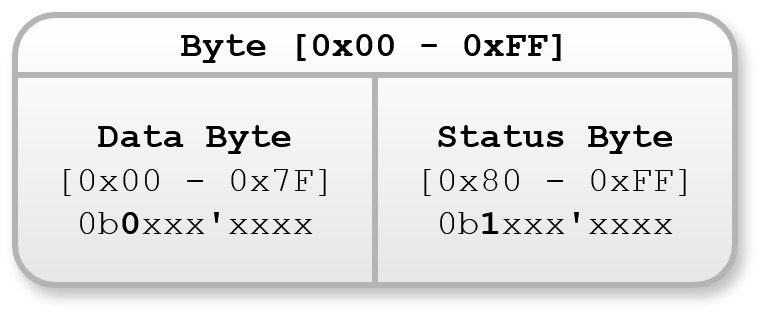
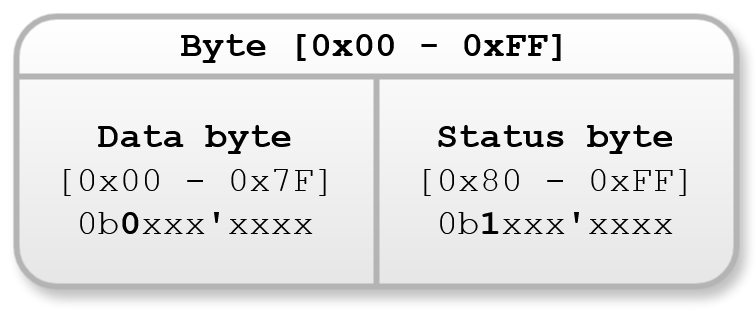
Revisados capitulos 2 y 3

diff --git a/Chapters/Chapter2.tex b/Chapters/Chapter2.tex
@@ -11,7 +11,7 @@ En este capítulo se describe brevemente cómo se codifican los mensajes MIDI de
 
 \section{Formato de mensajes MIDI} % 1 página
 
-El estándar MIDI se basa en el envío de datos a través de un puerto serie optoaislado que opera a una velocidad de 31 250 baudios \cite{mma:midi_spec}. Para codificar los mensajes se establece, en primer lugar, una distinción entre dos tipos de bytes: de estado (Status Byte) y de datos (Data Byte). En la figura \ref{fig:midi-byte} se ilustra esta diferencia.
+El estándar MIDI se basa en el envío de datos a través de un puerto serie optoaislado que opera a una velocidad de 31 250 baudios \cite{mma:midi_spec}. Para codificar los mensajes se establece, en primer lugar, una distinción entre dos tipos de bytes: de estado (status byte) y de datos (data byte). En la figura \ref{fig:midi-byte} se ilustra esta diferencia.
 
 \begin{figure}[ht]
 	\centering
@@ -39,7 +39,7 @@ En la figura \ref{fig:structure-midi-message} se ilustran estos cuatro posibles 
 	\label{fig:structure-midi-message}
 \end{figure}
 
-La cantidad de bytes de datos depende únicamente del tipo de mensaje. El estándar define dos categorías principales: mensajes de canal (Channel Messages) y mensajes de sistema (System Messages). En la figura \ref{fig:midi-messages} se observa un diagrama jerárquico de todos los tipos de mensajes.
+La cantidad de bytes de datos depende únicamente del tipo de mensaje. El estándar define dos categorías principales: mensajes de canal (channel messages) y mensajes de sistema (system messages). En la figura \ref{fig:midi-messages} se observa un diagrama jerárquico de todos los tipos de mensajes.
 
 \begin{figure}[H]
 	\centering
@@ -54,11 +54,11 @@ Con base en lo expuesto, la diferencia entre un mensaje de canal y uno de sistem
 
 La siguiente jerarquía de categorización se lista únicamente a modo explicativo:
 \begin{itemize}
-	\item Channel Voice Messages: controlan las voces de un instrumento. Se entiende por voz el sonido que este genera.
-	\item Channel Mode Messages: determinan cómo debe ser la respuesta del instrumento frente a los Voice Messages.
-	\item System Common Messages: son mensajes de sistema generales que se aplican sobre todos los receptores.
-	\item System Real Time Messages: son mensajes orientados a sincronizar instrumentos que disponen de algún mecanismo de reloj.
-	\item System Exclusive Messages: son mensajes de longitud variable, pensados para que los fabricantes puedan transmitir información propietaria que no está contemplada en el estándar.
+	\item Channel voice messages: controlan las voces de un instrumento. Se entiende por voz el sonido que este genera.
+	\item Channel mode messages: determinan cómo debe ser la respuesta del instrumento frente a los Voice Messages.
+	\item System common messages: son mensajes de sistema generales que se aplican sobre todos los receptores.
+	\item System real time messages: son mensajes orientados a sincronizar instrumentos que disponen de algún mecanismo de reloj.
+	\item System exclusive messages: son mensajes de longitud variable, pensados para que los fabricantes puedan transmitir información propietaria que no está contemplada en el estándar.
 \end{itemize}
 
 En la tabla \ref{tab:channel-messages} se listan todos los mensajes de canal definidos por el estándar. Además se agrega la cantidad de bytes de datos que posee cada uno de ellos.
@@ -68,15 +68,15 @@ En la tabla \ref{tab:channel-messages} se listan todos los mensajes de canal def
 	\label{tab:channel-messages}
 	\begin{tabular}{lccc}
 		\toprule
-		\textbf{Nombre}   & \textbf{ID (hexa)} & \textbf{Status Byte (binario)} & \textbf{\# Data Bytes} \\
+		\textbf{Nombre}   & \textbf{ID (hexa)} & \textbf{Status byte (binario)} & \textbf{\# Data bytes} \\
 		\midrule
-		Note Off          & \texttt{0x8n}       & \texttt{1000'nnnn}              & 2                      \\
-		Note On           & \texttt{0x9n}       & \texttt{1001'nnnn}              & 2                      \\
+		Note off          & \texttt{0x8n}       & \texttt{1000'nnnn}              & 2                      \\
+		Note on           & \texttt{0x9n}       & \texttt{1001'nnnn}              & 2                      \\
 		Aftertouch        & \texttt{0xAn}       & \texttt{1010'nnnn}              & 2                      \\
-		Control Change    & \texttt{0xBn}       & \texttt{1011'nnnn}              & 2                      \\
-		Program Change    & \texttt{0xCn}       & \texttt{1100'nnnn}              & 1                      \\
-		Channel Pressure  & \texttt{0xDn}       & \texttt{1101'nnnn}              & 1                      \\
-		Pitch Bend Change & \texttt{0xEn}       & \texttt{1110'nnnn}              & 2                      \\
+		Control change    & \texttt{0xBn}       & \texttt{1011'nnnn}              & 2                      \\
+		Program change    & \texttt{0xCn}       & \texttt{1100'nnnn}              & 1                      \\
+		Channel pressure  & \texttt{0xDn}       & \texttt{1101'nnnn}              & 1                      \\
+		Pitch bend change & \texttt{0xEn}       & \texttt{1110'nnnn}              & 2                      \\
 		\bottomrule
 		\hline
 	\end{tabular}
@@ -91,20 +91,20 @@ Finalmente, en la tabla \ref{tab:system-messages} se listan los mensajes de sist
 	{
 	\begin{tabular}{lccc}
 		\toprule
-		\textbf{Nombre}                & \textbf{ID (hexa)} & \textbf{Status Byte (binario)} & \textbf{\# Data Bytes} \\
+		\textbf{Nombre}                & \textbf{ID (hexa)} & \textbf{Status byte (binario)} & \textbf{\# Data bytes} \\
 		\midrule
-		SOX: Start of System Exclusive & \texttt{0xF0}      & \texttt{1111'0000}             & N                      \\
-		MIDI Time Code Quarter Frame   & \texttt{0xF1}      & \texttt{1111'0001}             & 1                      \\
-		Song Position Pointer          & \texttt{0xF2}      & \texttt{1111'0010}             & 2                      \\
-		Song Select                    & \texttt{0xF3}      & \texttt{1111'0011}             & 1                      \\
-		Tune Request                   & \texttt{0xF6}      & \texttt{1111'0110}             & 0                      \\
-		EOX: End of System Exclusive   & \texttt{0xF7}      & \texttt{1111'0111}             & 0                      \\
-		Timing Clock                   & \texttt{0xF8}      & \texttt{1111'1000}             & 0                      \\
+		SOX: Start of system exclusive & \texttt{0xF0}      & \texttt{1111'0000}             & N                      \\
+		MIDI time code quarter frame   & \texttt{0xF1}      & \texttt{1111'0001}             & 1                      \\
+		Song position pointer          & \texttt{0xF2}      & \texttt{1111'0010}             & 2                      \\
+		Song select                    & \texttt{0xF3}      & \texttt{1111'0011}             & 1                      \\
+		Tune request                   & \texttt{0xF6}      & \texttt{1111'0110}             & 0                      \\
+		EOX: End of system exclusive   & \texttt{0xF7}      & \texttt{1111'0111}             & 0                      \\
+		Timing clock                   & \texttt{0xF8}      & \texttt{1111'1000}             & 0                      \\
 		Start                          & \texttt{0xFA}      & \texttt{1111'1010}             & 0                      \\
 		Continue                       & \texttt{0xFB}      & \texttt{1111'1011}             & 0                      \\
 		Stop                           & \texttt{0xFC}      & \texttt{1111'1100}             & 0                      \\
-		Active Sensing                 & \texttt{0xFE}      & \texttt{1111'1110}             & 0                      \\
-		System Reset                   & \texttt{0xFF}      & \texttt{1111'1111}             & 0                      \\
+		Active sensing                 & \texttt{0xFE}      & \texttt{1111'1110}             & 0                      \\
+		System reset                   & \texttt{0xFF}      & \texttt{1111'1111}             & 0                      \\
 		\bottomrule
 		\hline
 	\end{tabular}
@@ -132,7 +132,7 @@ Para desarrollar el equipo, el requerimiento más importante del microcontrolado
 		\midrule
 		Núcleo                  & ARM Cortex-M4F          \\
 		Frecuencia máxima       & 100 MHz                 \\
-		Memoria flash           & 1.5 Mbytes              \\
+		Memoria flash           & 1,5 Mbytes              \\
 		Memoria RAM             & 320 Kbytes              \\
 		Cantidad de UARTs       & 10                      \\
 		Canales de DMA          & 16                      \\
@@ -156,7 +156,7 @@ El fabricante comercializa un kit de desarrollo basado en este microcontrolador,
 \footnotetext{Imagen tomada de \url{https://www.st.com/en/evaluation-tools/nucleo-f413zh.html}.}
 
 \subsection{Conversor Serie-USB}
-Dado que MIDI es un estándar basado en comunicación serie, para la etapa inicial del trabajo se han utilizado ocho conversores Serie-USB basados en el CH340G \cite{wch:ch340g}. En la figura \ref{fig:usb-serial} se observa una fotografía del mismo.
+Dado que MIDI es un estándar basado en comunicación serie, para la etapa inicial del trabajo se han utilizado ocho conversores Serie-USB basados en el CH340G \cite{wch:ch340g}. En la figura \ref{fig:usb-serial} se observa una fotografía de un conversor de este tipo.
 
 \begin{figure}[ht]
 	\centering
@@ -176,7 +176,7 @@ Dado que MIDI es un estándar basado en comunicación serie, para la etapa inici
 En esta sección se describen las principales herramientas de software y bibliotecas de terceros empleadas para el desarrollo del firmware del equipo.
 
 \subsection{Toolchain utilizado}
-Se optó por utilizar el lenguaje C++20 \cite{ISO:14882-2020} para el desarrollo de la aplicación principal, mientras que las bibliotecas de terceros están desarrolladas en el lenguaje de programación C \cite{st:um1725}, \cite{freertos:c-dev-tools}. Para ambos casos se empleó ARM GNU Toolchain, versión 14.3, como herramienta de compilación cruzada para la arquitectura Arm. Este conjunto de herramientas provee, entre otras, las siguientes utilidades:
+Se optó por utilizar el lenguaje C++20 \cite{ISO:14882-2020} para el desarrollo de la aplicación principal, mientras que las bibliotecas de terceros están desarrolladas en el lenguaje de programación C \cite{st:um1725}, \cite{freertos:c-dev-tools}. Para ambos casos se empleó ARM GNU Toolchain, versión 14.3, como herramienta de compilación cruzada para la arquitectura ARM. Este conjunto de herramientas provee, entre otras, las siguientes utilidades:
 \begin{itemize}
     \item Compiladores: \texttt{gcc} y \texttt{g++}
 	\item Enlazador: \texttt{ld}
@@ -188,17 +188,17 @@ Se optó por utilizar el lenguaje C++20 \cite{ISO:14882-2020} para el desarrollo
 
 Para simplificar el acceso a los periféricos del microcontrolador se empleó la biblioteca HAL (\textit{Hardware Abstraction Layer}) provista por STMicroelectronics \cite{st:um1725}. Esta biblioteca ofrece una capa de abstracción sobre el hardware del STM32F413 a través de una interfaz de programación en C que encapsula el manejo directo de registros y agrupa la funcionalidad de cada periférico en módulos coherentes (por ejemplo, GPIO, UART, SPI, temporizadores y DMA).
 
-El uso de la HAL permite reducir el tiempo de desarrollo y mejorar la portabilidad del código entre distintos microcontroladores de la misma familia, ya que mantiene una interfaz de alto nivel relativamente uniforme. En este proyecto se utilizó la HAL para la inicialización del reloj del sistema, la configuración de las interfaces de comunicación digital y la gestión de interrupciones asociadas, manteniendo el código de aplicación desacoplado de los detalles específicos del dispositivo.
+El uso de la HAL permite reducir el tiempo de desarrollo y mejorar la portabilidad del código entre distintos microcontroladores de la misma familia, ya que mantiene una interfaz de alto nivel relativamente uniforme. En este trabajo se utilizó la HAL para la inicialización del reloj del sistema, la configuración de las interfaces de comunicación digital y la gestión de interrupciones asociadas, de modo tal que el código de aplicación permanece desacoplado de los detalles específicos del dispositivo.
 
 \subsection{Biblioteca USB}
 
-Además de la biblioteca HAL, en este trabajo se integró la biblioteca de dispositivo USB provista por STMicroelectronics. Esta biblioteca implementa el stack de protocolo USB en modo device e incluye el soporte para la enumeración, la gestión de endpoints y el manejo de las transferencias de datos mediante una interfaz de programación en C.
+Además de la biblioteca HAL, en este trabajo se integró la biblioteca de dispositivo USB provista por STMicroelectronics \cite{st:um1734}. Esta biblioteca implementa el stack de protocolo USB en modo device e incluye el soporte para la enumeración, la gestión de endpoints y el manejo de las transferencias de datos mediante una interfaz de programación en C.
 
 La utilización de esta biblioteca permitió incorporar una interfaz de comunicación USB entre el equipo y una computadora sin necesidad de desarrollar un stack desde cero. De este modo, el firmware de aplicación pudo concentrarse en el procesamiento de los mensajes y en la lógica específica del equipo mientras que la biblioteca se encarga de las tareas relacionadas con el protocolo USB y sus detalles de bajo nivel.
 
 \subsection{Sistema operativo en tiempo real FreeRTOS}
 
-Como sistema operativo en tiempo real se utilizó FreeRTOS, un kernel ampliamente difundido en sistemas embebidos de recursos acotados. FreeRTOS proporciona mecanismos de planificación de tareas, colas de mensajes, semáforos y temporizadores de software, entre otros servicios básicos necesarios para estructurar aplicaciones concurrentes sobre microcontroladores.
+Como sistema operativo en tiempo real se utilizó FreeRTOS \cite{freertos:kernel}, un kernel ampliamente difundido en sistemas embebidos de recursos acotados. FreeRTOS proporciona mecanismos de planificación de tareas, colas de mensajes, semáforos y temporizadores de software, entre otros servicios básicos necesarios para estructurar aplicaciones concurrentes sobre microcontroladores.
 
 %----------------------------------------------------------------------------------------
 
@@ -206,17 +206,17 @@ Como sistema operativo en tiempo real se utilizó FreeRTOS, un kernel ampliament
 
 \section{Framework para el desarrollo del software}
 
-Para el desarrollo de la aplicación de escritorio se empleó Qt 6 como framework principal. Qt provee un conjunto de bibliotecas en C++ orientadas al desarrollo de interfaces gráficas y aplicaciones multiplataforma, lo que facilita la ejecución de un mismo código en distintos sistemas operativos de escritorio sin cambios significativos.
+Para el desarrollo de la aplicación de escritorio se empleó Qt 6 \cite{qt:qt6} como framework principal. Qt provee un conjunto de bibliotecas en C++ orientadas al desarrollo de interfaces gráficas y aplicaciones multiplataforma, lo que facilita la ejecución de un mismo código en distintos sistemas operativos de escritorio sin cambios significativos.
 
-La interfaz de usuario se implementó mediante QML (\textit{Qt Modeling Language}), un lenguaje declarativo que permite describir la estructura visual y el comportamiento de la interfaz de manera compacta. La lógica de aplicación y la comunicación con el equipo se implementaron en C++, integrándose con QML a través de mecanismos provistos por Qt. Esta combinación permitió separar de forma clara la presentación gráfica de la lógica de negocio, simplificando el mantenimiento y la evolución futura de la aplicación.
+La interfaz de usuario se implementó mediante QML (\textit{Qt Modeling Language}) \cite{qt:qml}, un lenguaje declarativo que permite describir la estructura visual y el comportamiento de la interfaz de manera compacta. La lógica de aplicación y la comunicación con el equipo se implementaron en C++, integrándose con QML a través de mecanismos provistos por Qt. Esta combinación permitió separar de forma clara la presentación gráfica de la lógica de negocio, simplificando el mantenimiento y la evolución futura de la aplicación.
 
 %----------------------------------------------------------------------------------------
 
 \section{Herramientas para el diseño del hardware}
 
-El diseño de las placas de circuito impreso (PCB) se realizó utilizando KiCad, una suite de software de automatización de diseño electrónico que permite la captura esquemática y el ruteo de placas multicapa, así como la generación de los archivos de fabricación correspondientes.
+El diseño de las placas de circuito impreso (PCB) se realizó utilizando KiCad \cite{kicad:eda}, una suite de software de automatización de diseño electrónico que permite la captura esquemática y el ruteo de placas multicapa, así como la generación de los archivos de fabricación correspondientes.
 
-Por otro lado, el diseño del gabinete se llevó a cabo con Autodesk Fusion 360. Esta herramienta de modelado tridimensional permitió definir la geometría del gabinete, verificar el ajuste mecánico de las placas y conectores, y generar los archivos necesarios para la fabricación del gabinete.
+Por otro lado, el diseño del gabinete se llevó a cabo con Autodesk Fusion 360 \cite{autodesk:fusion360}. Esta herramienta de modelado tridimensional permitió definir la geometría del gabinete, verificar el ajuste mecánico de las placas y conectores, y generar los archivos necesarios para la fabricación del gabinete.
 
 
 %----------------------------------------------------------------------------------------

diff --git a/Chapters/Chapter3.tex b/Chapters/Chapter3.tex
@@ -56,20 +56,20 @@ El firmware se encarga de realizar íntegramente el procesamiento del flujo de d
 
 \begin{figure}[ht]
 	\centering
-	\includegraphics[width=0.75\textwidth]{./Figures/app-settings.png}
+	\includegraphics[width=\textwidth]{./Figures/app-settings.png}
 	\caption{Diagrama en clases de las estructuras de datos principales de la aplicación.}
 	\label{fig:app-settings}
 \end{figure}
 
 Recorriendo el diagrama de menor a mayor jerarquía, se encuentran las siguientes estructuras:
 \begin{itemize}
-	\item \texttt{Version}: Se utiliza para versionar la imagen de firmware.
-	\item \texttt{SystemFilters}: Representa mediante un \texttt{std::bitset} \cite{cppreference:bitset} de 11 bits si los mensajes de sistema deben ser filtrados o no (un bit por cada tipo de mensaje).
-	\item \texttt{ChannelFilters}: Cumple la misma funcionalidad que \texttt{SystemFilters}, con la salvedad de que, como los mensajes de canal tienen un canal asociado, esta estructura es un arreglo de dieciséis \texttt{std::bitset} de 7 bits.
-	\item \texttt{RouterSettings}: El ruteo entre entradas y salidas también se modela con un \texttt{std::bitset}. Dado que el sistema posee 4 entradas y 8 salidas, esta estructura es un arreglo de cuatro \texttt{std::bitset} de 8 bits.
-	\item \texttt{IOSettings}: Esta estructura encapsula todas las propiedades que se pueden modificar en las entradas y salidas: un nombre, la configuración de filtros y si se encuentra habilitada o no.
-	\item \texttt{Preset}: Contiene la configuración de todas las entradas y salidas, así como la configuración de ruteo entre ellas. Además se le agrega un nombre para que el usuario también pueda identificarla.
-	\item \texttt{Settings}: Contiene el estado de los dieciséis preset, el número de preset activo, la versión y un identificador único que se utiliza para operaciones de serialización.
+	\item \texttt{Version}: se utiliza para versionar la imagen de firmware.
+	\item \texttt{SystemFilters}: representa mediante un \texttt{std::bitset} \cite{cppreference:bitset} de 11 bits si los mensajes de sistema deben ser filtrados o no (un bit por cada tipo de mensaje).
+	\item \texttt{ChannelFilters}: cumple la misma funcionalidad que \texttt{SystemFilters}, con la salvedad de que, como los mensajes de canal tienen un canal asociado, esta estructura es un arreglo de dieciséis \texttt{std::bitset} de 7 bits.
+	\item \texttt{RouterSettings}: el ruteo entre entradas y salidas también se modela con un \texttt{std::bitset}. Dado que el sistema posee 4 entradas y 8 salidas, esta estructura es un arreglo de cuatro \texttt{std::bitset} de 8 bits.
+	\item \texttt{IOSettings}: esta estructura encapsula todas las propiedades que se pueden modificar en las entradas y salidas: un nombre, la configuración de filtros y si se encuentra habilitada o no.
+	\item \texttt{Preset}: contiene la configuración de todas las entradas y salidas, así como la configuración de ruteo entre ellas. Además se le agrega un nombre para que el usuario también pueda identificarla.
+	\item \texttt{Settings}: contiene el estado de los dieciséis preset, el número de preset activo, la versión y un identificador único que se utiliza para operaciones de serialización.
 \end{itemize}
 %----------------------------------------------------------------------------------------
 
@@ -89,18 +89,16 @@ Para desarrollar la aplicación, se segmentó la funcionalidad en distintas capa
 	\label{fig:fw-layers}
 \end{figure}
 
-A continuación se detalla la funcionalidad de cada una de ellas:
+A continuación, se detalla la funcionalidad de cada una de ellas:
 \begin{itemize}
-	\item \texttt{Hardware}: No es parte del software. Se la incluye en el diagrama para poner en contexto a las siguientes capas.
-	\item \texttt{ST HAL}: Es la biblioteca HAL ofrecida por el fabricante del microcontrolador \cite{st:um1725}. Se la usa para configurar el reloj del sistema y los periféricos utilizados. En esta capa se contempla tambien la biblioteca USB desarrollada por ST.
-	\item \texttt{freeRTOS}: Es la biblioteca de freeRTOS, también desarrollada por terceros \cite{freertos:rtos-book}.
-	\item \texttt{os}: Es un wrapper en C++ de primitivas de kernel tales como colas, tareas o mutex, entre otras. Su funcionalidad es proveer una capa de abstracción sobre el sistema operativo utilizado, así como ofrecer más niveles de personalización, facilidad de uso y seguridad sobre las primitivas encapsuladas.
-	\item \texttt{hal}: Es un wrapper en C++ de los periféricos utilizados, tales como UART, GPIO, USB, etc. Al igual que \texttt{os} busca desacoplar el periférico de la plataforma utilizada.
-	\item \texttt{svc}: Capa de servicios de la aplicación. Son módulos de mayor nivel que engloban tareas específicas, más relacionadas con los requerimientos de la aplicación.
-	\item \texttt{app}: Capa de aplicación. Es la encargada de instanciar todos los servicios de modo de cumplir con los requerimientos del firmware. También define los tipos de datos mencionados en la sección \ref{diagrama-bloques-sistema}.
+	\item \texttt{Hardware}: no es parte del software. Se la incluye en el diagrama para poner en contexto a las siguientes capas.
+	\item \texttt{ST HAL}: es la biblioteca HAL ofrecida por el fabricante del microcontrolador \cite{st:um1725}. Se la usa para configurar el reloj del sistema y los periféricos utilizados. En esta capa se contempla tambien la biblioteca USB desarrollada por ST.
+	\item \texttt{freeRTOS}: es la biblioteca de freeRTOS, también desarrollada por terceros \cite{freertos:rtos-book}.
+	\item \texttt{os}: es un wrapper en C++ de primitivas de kernel tales como colas, tareas o mutex, entre otras. Su funcionalidad es proveer una capa de abstracción sobre el sistema operativo utilizado, así como ofrecer más niveles de personalización, facilidad de uso y seguridad sobre las primitivas encapsuladas.
+	\item \texttt{hal}: es un wrapper en C++ de los periféricos utilizados, tales como UART, GPIO, USB, etc. Al igual que \texttt{os} busca desacoplar el periférico de la plataforma utilizada.
+	\item \texttt{svc}: capa de servicios de la aplicación. Son módulos de mayor nivel que engloban tareas específicas, más relacionadas con los requerimientos de la aplicación.
+	\item \texttt{app}: capa de aplicación. Es la encargada de instanciar todos los servicios de modo de cumplir con los requerimientos del firmware. También define los tipos de datos mencionados en la sección \ref{diagrama-bloques-sistema}.
 \end{itemize}
-
-\newpage
 
 En base al esquema de capas propuesto, en la figura \ref{fig:fw-arch} se observa un diagrama en alto nivel de los componentes que integran a la aplicación. En secciones posteriores se realizará un análisis más exhaustivo.
 
@@ -113,19 +111,17 @@ En base al esquema de capas propuesto, en la figura \ref{fig:fw-arch} se observa
 
 La aplicación consiste en cinco tipos de servicios o sistemas interactuando entre sí:
 \begin{enumerate}
-	\item \texttt{svc::dial}: Es el encargado de monitorear el estado del encoder rotativo y reportar interacciones con el usuario.
-	\item \texttt{svc::led}: Controla los LEDs del panel frontal, con la intención principal de indicar el número de preset activo.
-	\item \texttt{svc::storage}: Se encarga de leer y escribir la configuración de la aplicación en la memoria interna del microcontrolador.
-	\item \texttt{svc::comms}: Gestiona la comunicación con la computadora. Es la encargada de serializar y deserializar los comandos establecidos por el protocolo diseñado para la comunicación entre el firmware y el software.
-	\item \texttt{svc::io}: Es el que controla la recepción y transmisión de mensajes MIDI entre las entradas y las salidas. Esto incluye el ruteo y filtrado de mensajes
+	\item \texttt{svc::dial}: es el encargado de monitorear el estado del encoder rotativo y reportar interacciones con el usuario.
+	\item \texttt{svc::led}: controla los LEDs del panel frontal, con la intención principal de indicar el número de preset activo.
+	\item \texttt{svc::storage}: se encarga de leer y escribir la configuración de la aplicación en la memoria interna del microcontrolador.
+	\item \texttt{svc::comms}: gestiona la comunicación con la computadora. Es la encargada de serializar y deserializar los comandos establecidos por el protocolo diseñado para la comunicación entre el firmware y el software.
+	\item \texttt{svc::io}: es el que controla la recepción y transmisión de mensajes MIDI entre las entradas y las salidas. Esto incluye el ruteo y filtrado de mensajes
 \end{enumerate}
 
 Cada uno de estos servicios tiene una serie de dependencias que necesita para operar correctamente. La aplicación es la encargada de instanciarlas e inyectarlas.
 Por otro lado, la comunicación entre los servicios y la aplicación se hace mediante el patrón de Objeto Activo \cite{lavender-schmidt:active-object}, en donde una tarea monitorea el estado de una cola de eventos que son procesados de manera diferida. Estos eventos son estructuras de datos generadas asincrónicamente por los servicios, y pueden contener o no información asociada.
 
-\newpage
-
-\subsection{Diseño del servicio de Dial}
+\subsection{Diseño del servicio de dial}
 El servicio \texttt{svc::dial} se encarga de monitorear un encoder rotativo con pulsador. En la figura \ref{fig:rotary-encoder} se muestra una fotografía de un encoder típico, montado en una placa tipo breakout para prototipos.
 
 \begin{figure}[ht]
@@ -144,17 +140,17 @@ En la figura \ref{fig:svc-dial} se ilustra un diagrama en bloques del servicio \
 \begin{figure}[ht]
 	\centering
 	\includegraphics[width=\textwidth]{./Figures/svc-dial.png}
-	\caption{Diagrama en bloques del servicio de Dial.}
+	\caption{Diagrama en bloques del servicio de dial.}
 	\label{fig:svc-dial}
 \end{figure}
 
 Cuando se detecta alguna actividad por parte del usuario, los siguientes eventos son enviados a la aplicación principal:
 \begin{itemize}
-	\item \texttt{ButtonPressed}: El botón ha sido apretado una sola vez.
-	\item \texttt{ButtonDoublePressed}: El botón ha sido apretado dos veces en una ventana de tiempo corta (configurable a través de una constante de compilación).
-	\item \texttt{ButtonLongPressed}: El botón ha sido apretado y retenido por un intervalo de tiempo largo (configurable a través de una constante de compilación).
-	\item \texttt{DialCW}: El encoder ha rotado en sentido horario.
-	\item \texttt{DialCCW}: El encoder ha rotado en sentido antihorario.
+	\item \texttt{ButtonPressed}: el botón ha sido apretado una sola vez.
+	\item \texttt{ButtonDoublePressed}: el botón ha sido apretado dos veces en una ventana de tiempo corta (configurable a través de una constante de compilación).
+	\item \texttt{ButtonLongPressed}: el botón ha sido apretado y retenido por un intervalo de tiempo largo (configurable a través de una constante de compilación).
+	\item \texttt{DialCW}: el encoder ha rotado en sentido horario.
+	\item \texttt{DialCCW}: el encoder ha rotado en sentido antihorario.
 \end{itemize}
 
 
@@ -179,9 +175,9 @@ El servicio consiste en una tarea que periódicamente refresca el estado de los 
 
 Se definieron tres animaciones:
 \begin{enumerate}
-	\item \texttt{Startup}: Ocurre cuando el sistema inicializa. Hace un barrido por todos los LEDs, comenzando y terminando por el LED correspondiente al preset activo. Cuando finaliza la animación se transiciona al estado \texttt{Steady}.
-	\item \texttt{Steady}: Es el estado por defecto del sistema. Se mantiene encendido el LED correspondiente al preset activo. El servicio dispone de una función llamada \texttt{set\_active\_preset()} para poder actualizar el LED a encender.
-	\item \texttt{Blink}: Este estado se utiliza para indicarle al usuario que un preset ha sido guardado como activo, invocando el método \texttt{confirm\_saved()}. La animación consiste en hacer un destello intermitente dos veces. Cuando finaliza, se transiciona al estado \texttt{Steady}.
+	\item \texttt{Startup}: ocurre cuando el sistema inicializa. Hace un barrido por todos los LEDs, comenzando y terminando por el LED correspondiente al preset activo. Cuando finaliza la animación se transiciona al estado \texttt{Steady}.
+	\item \texttt{Steady}: es el estado por defecto del sistema. Se mantiene encendido el LED correspondiente al preset activo. El servicio dispone de una función llamada \texttt{set\_active\_preset()} para poder actualizar el LED a encender.
+	\item \texttt{Blink}: este estado se utiliza para indicarle al usuario que un preset ha sido guardado como activo, invocando el método \texttt{confirm\_saved()}. La animación consiste en hacer un destello intermitente dos veces. Cuando finaliza, se transiciona al estado \texttt{Steady}.
 \end{enumerate}
 
 \newpage
@@ -197,7 +193,7 @@ La función de \texttt{svc::storage} es la de ofrecer una interfaz para leer y e
 \end{figure}
 
 \subsection{Diseño del servicio de I/O}
-El servicio \texttt{svc::io} es el núcleo de la aplicación, ya que es el encargado de procesar el flujo de mensajes MIDI desde las entradas hasta las salidas. En la figura \ref{fig:svc-io} se observa un diagrama en bloques del mismo.
+El servicio \texttt{svc::io} es el núcleo de la aplicación, ya que es el encargado de procesar el flujo de mensajes MIDI desde las entradas hasta las salidas. En la figura \ref{fig:svc-io} se observa un diagrama en bloques del servicio.
 \begin{figure}[ht]
 	\centering
 	\includegraphics[width=\textwidth]{./Figures/svc-io.png}
